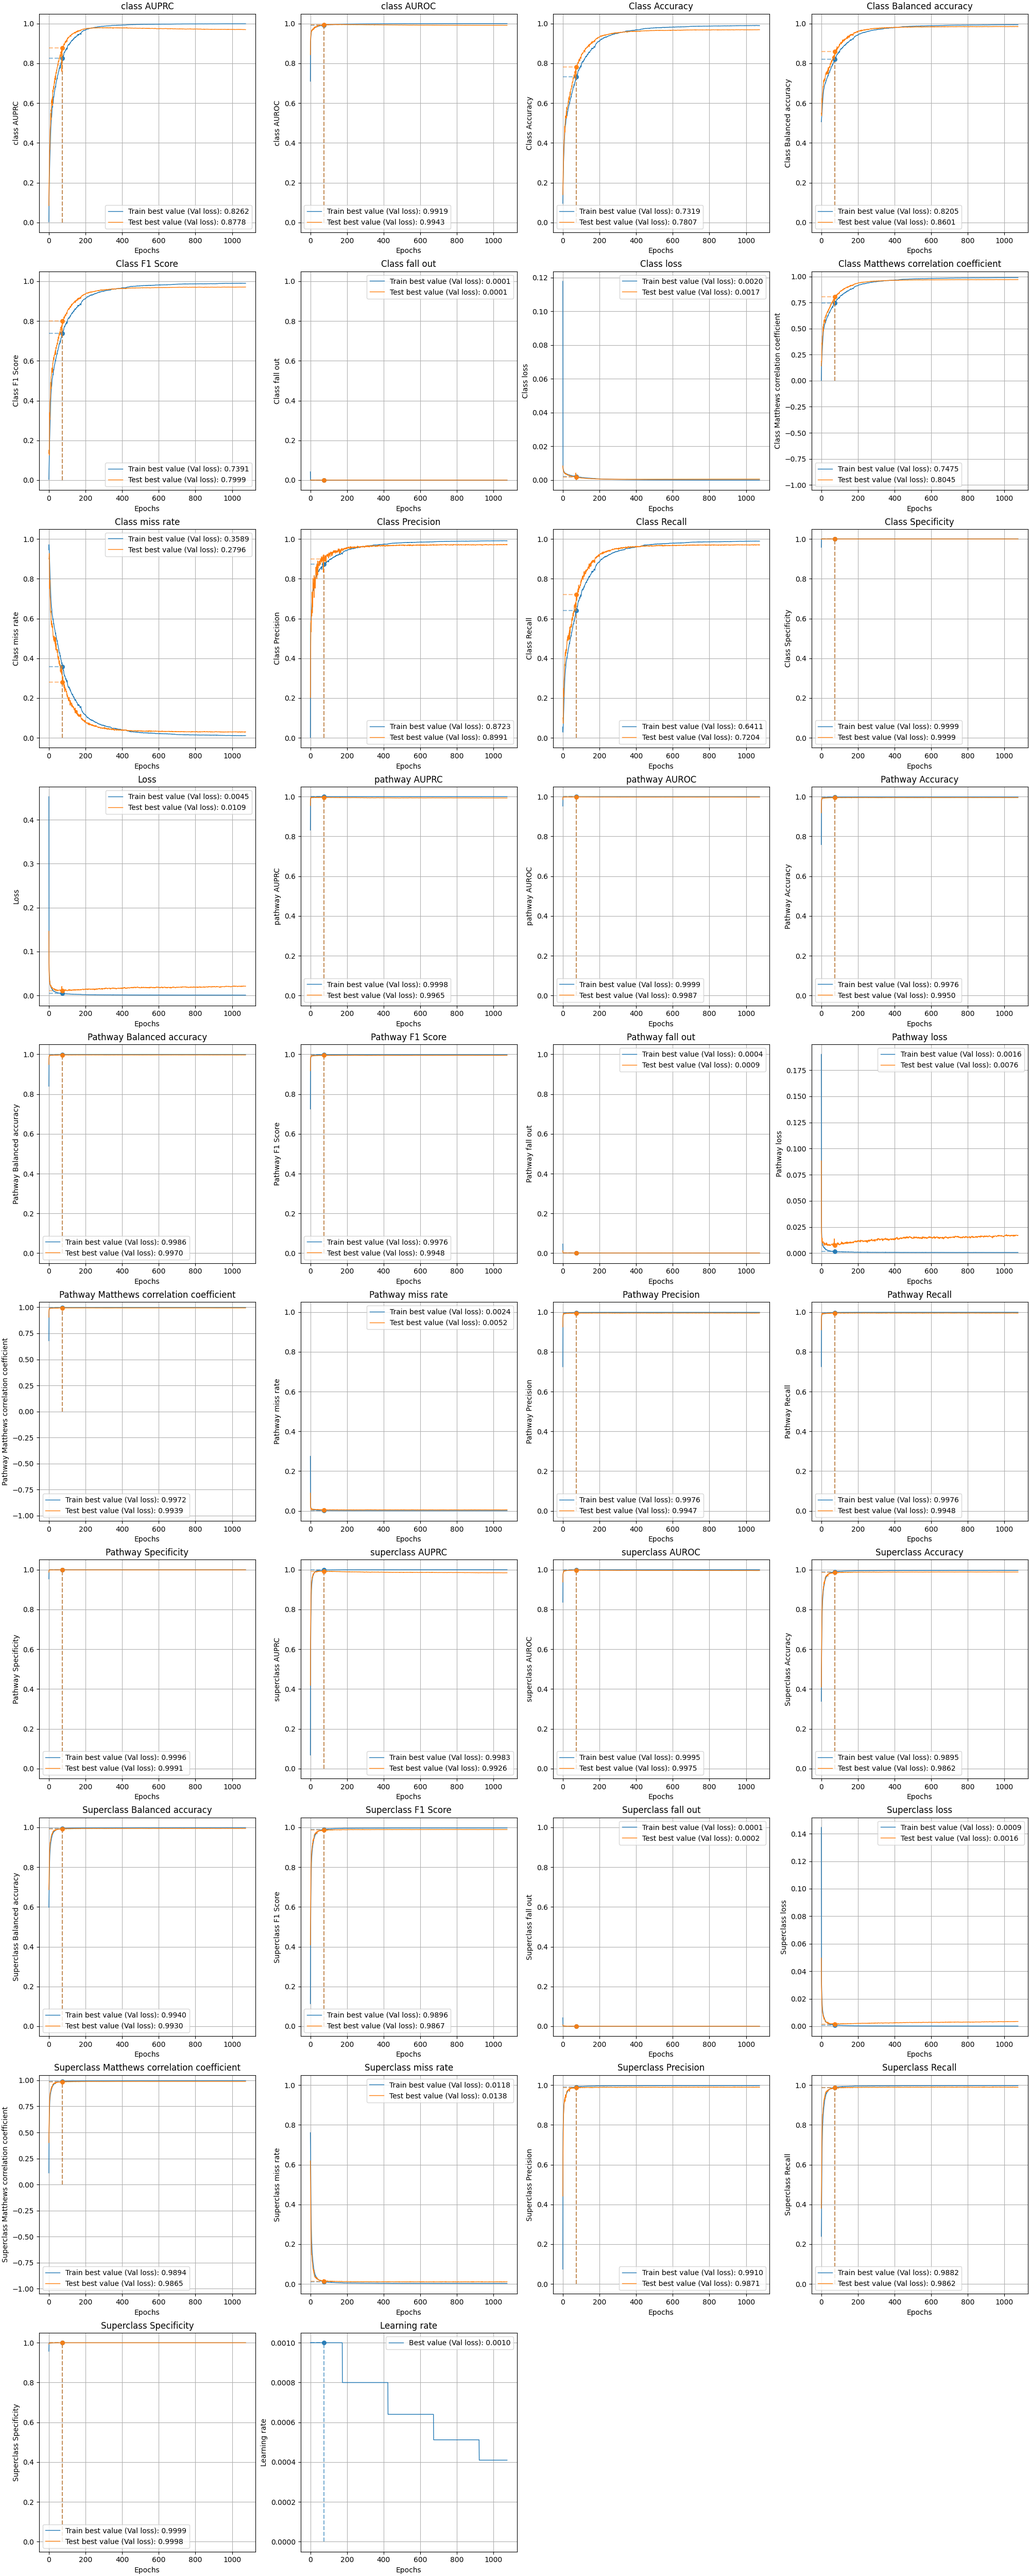
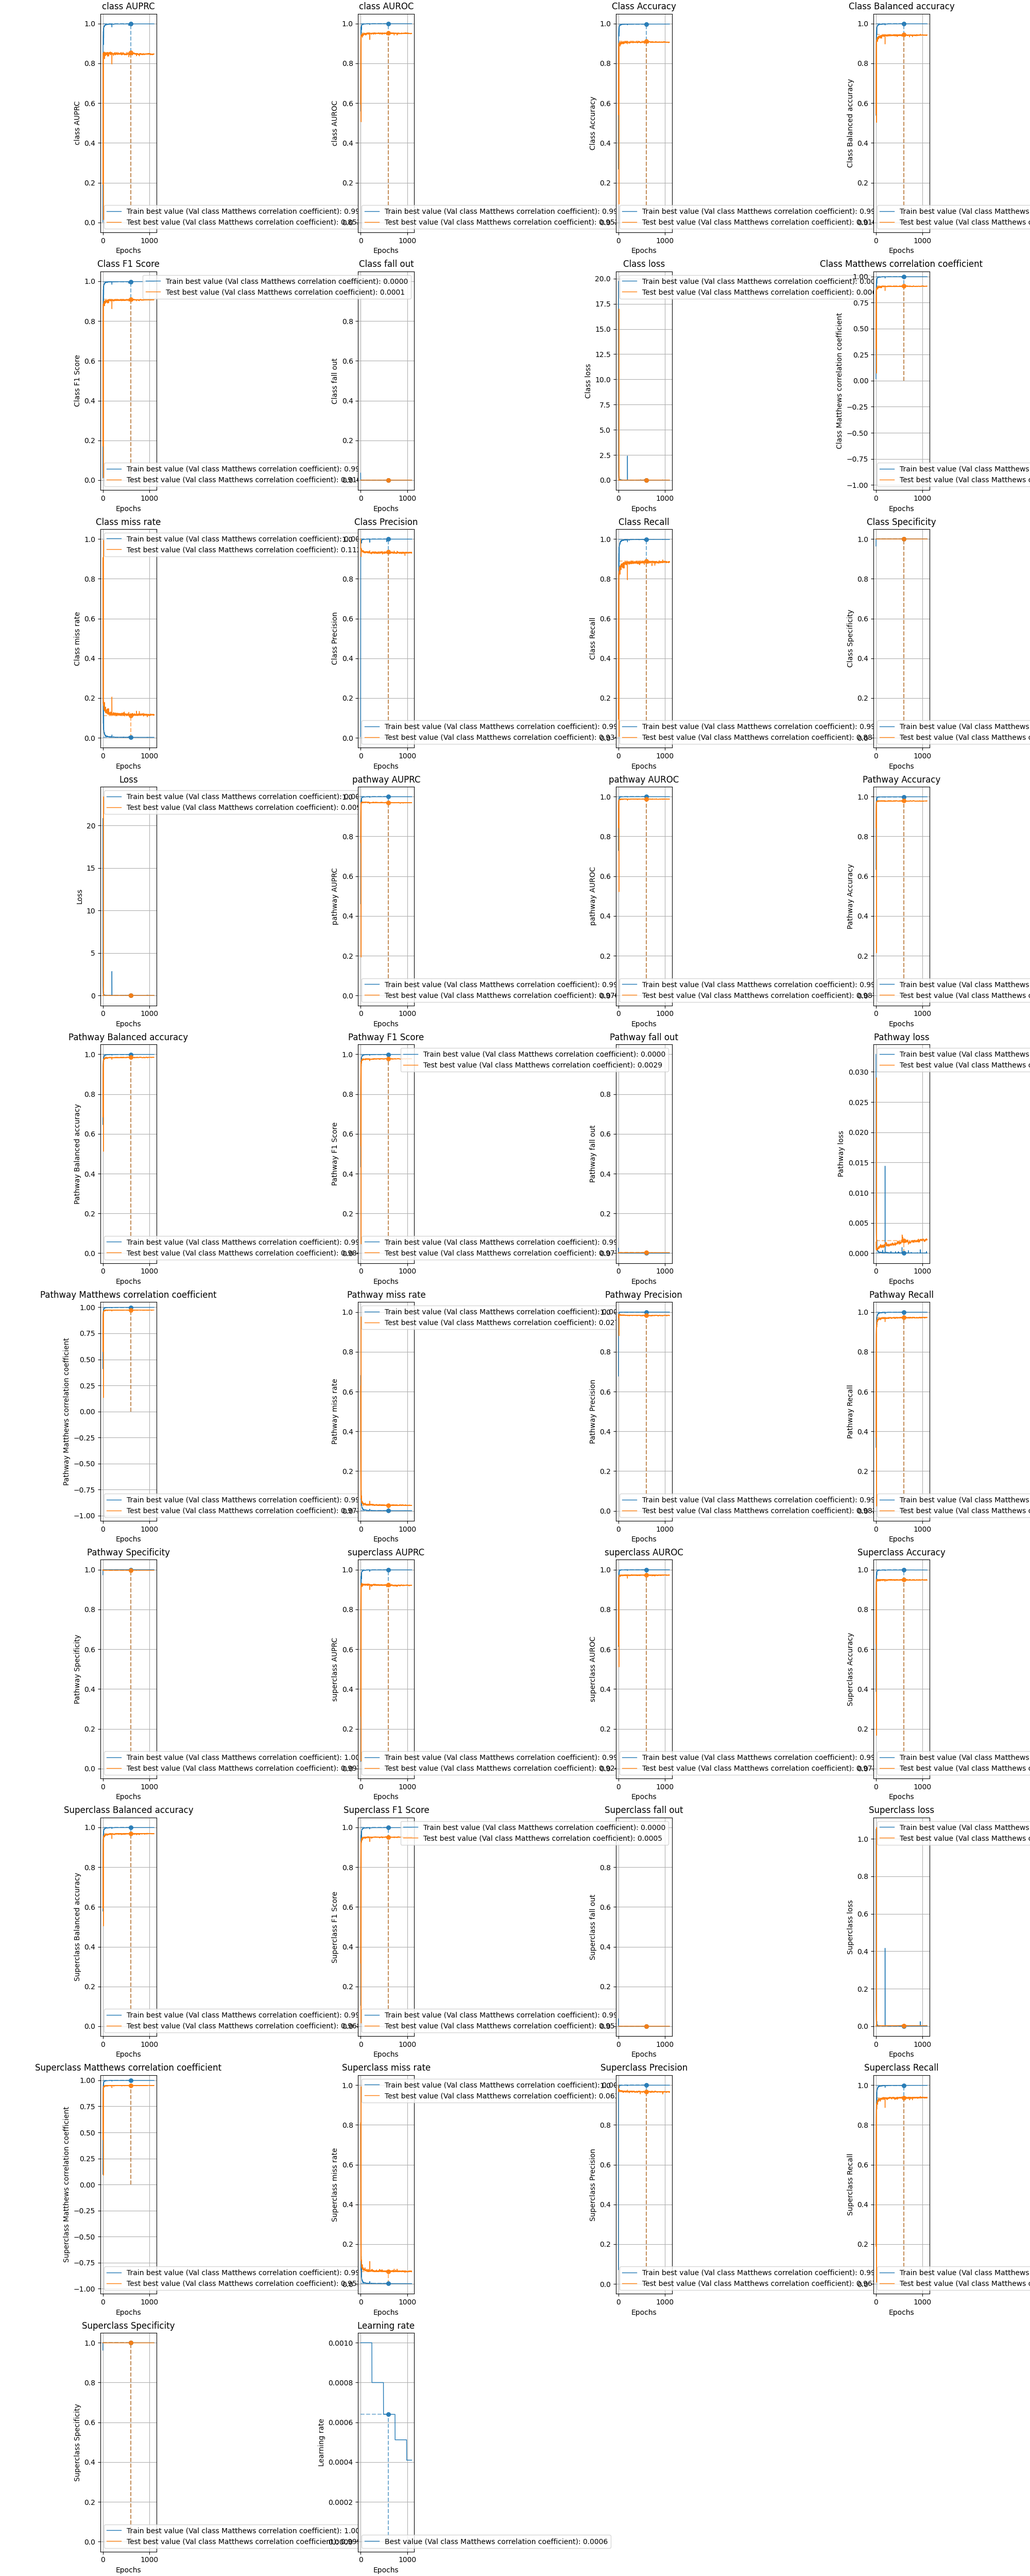
Further model tweaks

diff --git a/np_classifier/training/model.py b/np_classifier/training/model.py
@@ -21,27 +21,6 @@ and as such, the model uses a binary cross-entropy loss function for
 each output tensor, with a sigmoid activation function. Each head of
 the model is a separate sub-module, responsible for processing the output
 tensor of the corresponding class level.
-
-Principal layers
-~~~~~~~~~~~~~~~~~~~~~~
-The model uses a combination of dense layers, batch normalization layers,
-and dropout layers. The dense layers are responsible for the main processing
-of the input tensors, while the batch normalization layers are used to
-normalize the activations of the previous layer at each batch. The dropout
-layers are used to prevent overfitting by randomly setting a fraction of
-the input units to 0 at each update during training. By default, the dropout
-rate is set to 0.5. The model also uses ReLU activation functions for the
-dense layers. As aforementioned, the output layers use a sigmoid activation
-function.
-
-Training strategy
-~~~~~~~~~~~~~~~~~~~~~~
-The model optimizer is Adam, with the default learning rate of 0.001.
-The model also employs early stopping with a patience of 100 epochs,
-with a maximal number of epochs set to 10_000, based on the training
-loss. 
-
-
 """
 
 from typing import Dict, Optional, Tuple, List
@@ -74,6 +53,9 @@ from tensorflow.keras.initializers import (  # pylint: disable=no-name-in-module
 )
 from tensorflow.keras.saving import (  # pylint: disable=no-name-in-module,import-error
     load_model,  # pylint: disable=no-name-in-module,import-error
+)
+from tensorflow.keras.losses import (  # pylint: disable=no-name-in-module,import-error
+    SquaredHinge,  # pylint: disable=no-name-in-module,import-error
 )
 import compress_json
 from downloaders import BaseDownloader
@@ -141,7 +123,9 @@ class Classifier:
         classifier._superclass_names = compress_json.load(superclass_names_path)
         return classifier
 
-    def predict_smile(self, smile: str, include_top_k: Optional[int] = 10) -> Dict[str, str]:
+    def predict_smile(
+        self, smile: str, include_top_k: Optional[int] = 10
+    ) -> Dict[str, str]:
         """Predict the class labels for a single SMILES string."""
         assert isinstance(smile, str)
         assert len(smile) > 0
@@ -212,7 +196,7 @@ class Classifier:
         else:
             hidden_sizes = 128
 
-        for i in range(5):
+        for i in range(4):
             hidden = Dense(
                 hidden_sizes,
                 activation="relu",
@@ -222,14 +206,14 @@ class Classifier:
             hidden = BatchNormalization(
                 name=f"batch_normalization_{input_layer.name}_{i}"
             )(hidden)
-        
-        hidden = Dropout(0.5)(hidden)
+
+        hidden = Dropout(0.4)(hidden)
         return hidden
 
     def _build_hidden_layers(self, inputs: List[Layer]) -> Layer:
         """Build the hidden layers sub-module."""
         hidden = Concatenate(axis=-1)(inputs)
-        for i in range(5):
+        for i in range(4):
             hidden = Dense(
                 2048,
                 activation="relu",
@@ -239,12 +223,12 @@ class Classifier:
             hidden = BatchNormalization(
                 name=f"batch_normalization_hidden_{i}",
             )(hidden)
-        hidden = Dropout(0.5)(hidden)
+        hidden = Dropout(0.3)(hidden)
         return hidden
 
     def _build_pathway_head(self, input_layer: Layer, number_of_pathways: int) -> Layer:
         """Build the output head sub-module."""
-        return Dense(number_of_pathways, name="pathway", activation="sigmoid")(
+        return Dense(number_of_pathways, name="pathway", activation="linear")(
             input_layer
         )
 
@@ -252,13 +236,13 @@ class Classifier:
         self, input_layer: Layer, number_of_superclasses: int
     ) -> Layer:
         """Build the output head sub-module."""
-        return Dense(number_of_superclasses, name="superclass", activation="sigmoid")(
+        return Dense(number_of_superclasses, name="superclass", activation="linear")(
             input_layer
         )
 
     def _build_class_head(self, input_layer: Layer, number_of_classes: int) -> Layer:
         """Build the output head sub-module."""
-        return Dense(number_of_classes, name="class", activation="sigmoid")(input_layer)
+        return Dense(number_of_classes, name="class", activation="linear")(input_layer)
 
     def _build(
         self,
@@ -308,14 +292,26 @@ class Classifier:
     ):
         """Train the classifier model."""
         self._build(*train)
+        # We setup loss weights so that the output with more classes, which is the harder
+        # to predict, has a higher weight.
+        total_number_of_outputs = sum((
+            output.shape[1]
+            for output in train[1].values()
+        ))
+        loss_weights = {
+            "pathway": train[1]["pathway"].shape[1] / total_number_of_outputs,
+            "superclass": train[1]["superclass"].shape[1] / total_number_of_outputs,
+            "class": train[1]["class"].shape[1] / total_number_of_outputs,
+        }
         self._model.compile(
             optimizer=Adam(),
-            loss="binary_focal_crossentropy",
+            loss=SquaredHinge(),
             metrics={
                 "pathway": get_standard_binary_metrics(),
                 "superclass": get_standard_binary_metrics(),
                 "class": get_standard_binary_metrics(),
             },
+            loss_weights=loss_weights,
         )
         plot_model(
             self._model,
@@ -357,11 +353,49 @@ class Classifier:
 
         early_stopping = EarlyStopping(
             monitor="val_class_mcc",
-            patience=1000,
+            patience=500,
             verbose=1,
             mode="max",
             restore_best_weights=True,
         )
+
+        # We compute the sample weights by combining the reciprocal of the class frequencies.
+        # We start by counting the number of samples for each class.
+        pathway_counts = train[1]["pathway"].sum(axis=0)
+        superclass_counts = train[1]["superclass"].sum(axis=0)
+        class_counts = train[1]["class"].sum(axis=0)
+
+        # We determine a sample of rarity for each sample. When a sample has multiple classes,
+        # we determine its rarity by multiplying the rarity of each class.
+        number_of_samples = train[1]["pathway"].shape[0]
+
+        pathway_sample_rarity = np.fromiter(
+            (
+                np.sum(number_of_samples / pathway_counts[sample_pathways == 1])
+                for sample_pathways in train[1]["pathway"]
+            ),
+            dtype=np.float32,
+        )
+        superclass_sample_rarity = np.fromiter(
+            (
+                np.sum(number_of_samples / superclass_counts[sample_superclasses == 1])
+                for sample_superclasses in train[1]["superclass"]
+            ),
+            dtype=np.float32,
+        )
+        class_sample_rarity = np.fromiter(
+            (
+                np.sum(number_of_samples / class_counts[sample_classes == 1])
+                for sample_classes in train[1]["class"]
+            ),
+            dtype=np.float32,
+        )
+
+        sample_weight = {
+            "pathway": pathway_sample_rarity,
+            "superclass": superclass_sample_rarity,
+            "class": class_sample_rarity,
+        }
 
         training_history = self._model.fit(
             *train,
@@ -385,6 +419,7 @@ class Classifier:
                 early_stopping,
                 learning_rate_scheduler,
             ],
+            sample_weight=sample_weight,
             batch_size=4096,
             shuffle=True,
             verbose=0,

diff --git a/np_classifier/training/trainer.py b/np_classifier/training/trainer.py
@@ -23,7 +23,7 @@ class Trainer:
         self,
     ) -> pd.DataFrame:
         """Train the classifier."""
-        _train, test = self._smiles_dataset.primary_split()
+        test = None
         all_performance = []
         for holdout_number, (sub_train, valid) in enumerate(
             self._smiles_dataset.train_split()
@@ -32,6 +32,8 @@ class Trainer:
             classifier.train(sub_train, valid, holdout_number=holdout_number, number_of_epochs=self._number_of_epochs)
             sub_train_performance = classifier.evaluate(sub_train)
             sub_valid_performance = classifier.evaluate(valid)
+            if test is None:
+                _train, test = self._smiles_dataset.primary_split()
             test_performance = classifier.evaluate(test)
             for performance, subset in [
                 (sub_train_performance, "subtrain"),

diff --git a/np_classifier/training/smiles_dataset.py b/np_classifier/training/smiles_dataset.py
@@ -66,11 +66,11 @@ class Dataset:
         include_map4_fingerprint: bool = False,
         include_descriptors: bool = True,
         use_tautomer_augmentation_strategy: bool = True,
-        maximal_number_of_tautomers: Optional[int] = 16,
+        maximal_number_of_tautomers: Optional[int] = 64,
         use_stereoisomer_augmentation_strategy: bool = True,
-        maximal_number_of_stereoisomers: Optional[int] = 16,
+        maximal_number_of_stereoisomers: Optional[int] = 64,
         use_pickaxe_augmentation_strategy: bool = True,
-        maximal_number_of_pickaxe_molecules: Optional[int] = 128,
+        maximal_number_of_pickaxe_molecules: Optional[int] = 256,
         maximal_number_of_molecules: Optional[int] = None,
         verbose: bool = True,
     ):
